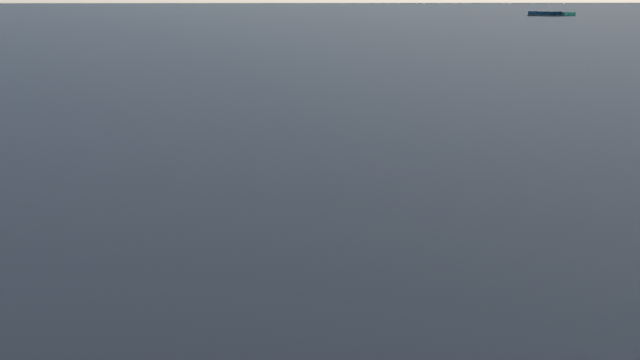
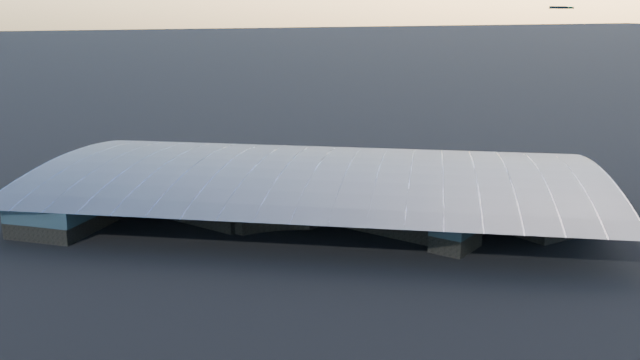
Checkpoint: concurrent agent output
Claude-Session: https://claude.ai/code/session_012rCzdfEp56Z5bDvSJLVsiQ

diff --git a/blender/buildings/render_verify.py b/blender/buildings/render_verify.py
@@ -79,6 +79,16 @@ VIEWS: dict[str, dict] = {
         "fov": 52.0, "sun_az": 200.0, "sun_el": 44.0, "size": (1600, 900),
         "title": "Bayside one- and two-family houses: gable, hip and shed roofs (t_14_6)",
     },
+    "midtown_setbacks": {
+        # aimed at BIN 1014429 (six roof plateaus, 25.9 m of setback over an 86 m tower) and its
+        # neighbours; rendered from the stepped build and from a --roof-steps off build of the same
+        # tile so the pair is directly comparable.
+        "tiles": ["t_-4_5", "t_-3_5", "t_-4_6", "t_-3_6"],
+        "cam": (-3246.0, 5615.0), "cam_agl": 105.0,
+        "target": (-3406.0, 5775.0), "target_agl": 42.0,
+        "fov": 42.0, "sun_az": 145.0, "sun_el": 40.0, "size": (1600, 900),
+        "title": "Midtown setbacks: real multi-level massing recovered from the CityGML LOD2 roof levels",
+    },
     "skyline_brooklyn": {
         "merged": {"level": 2, "cells": [(-2, 0), (-2, 1), (-1, 0), (-1, 1), (-2, -1), (-1, -1)]},
         "cam": (-4183.8, -431.9), "cam_z": 22.0,      # Brooklyn Heights Promenade deck

diff --git a/core/src/traffic/TrafficSim.cpp b/core/src/traffic/TrafficSim.cpp
@@ -1856,10 +1856,19 @@ uint32_t TrafficSim::spawn(VehicleClass c, uint32_t lane, float s, uint32_t dest
   path[0] = lane;
   nv.path_len = 1;
   nv.path_pos = 0;
-  if (dest_lane != kInvalidIndex && router_ != nullptr && router_->attached()) {
+  // Routing is budgeted like everything else: an agent that cannot be routed in
+  // this step drives on its wander path and picks its route up within a second.
+  if (dest_lane != kInvalidIndex && router_ != nullptr && router_->attached() &&
+      routes_this_step_ < cfg_.max_routes_per_step) {
+    ++routes_this_step_;
     if (!routeAgent(nv, dest_lane, dest_s)) extendPath(nv);
   } else {
     extendPath(nv);
+    if (dest_lane != kInvalidIndex) {
+      nv.dest_lane = dest_lane;
+      nv.dest_s = dest_s;
+      if (pending_routes_.size() < pending_routes_.capacity()) pending_routes_.push_back(id);
+    }
   }
   if (cp.is_bus) assignBusRoute(nv);
   ++stats_.spawned;

diff --git a/core/src/peds/PedSim.cpp b/core/src/peds/PedSim.cpp
@@ -426,8 +426,10 @@ void PedSim::updateAgent(uint32_t i) {
 
   // Walls: only evaluated near the corridor edge — the hard clamp in
   // integrate() is what actually guarantees non-penetration.
+  // The corridor clamp is what guarantees containment; the wall force only has
+  // to soften the approach, so it is evaluated in the last 40 cm.
   const float half = edgeWidthHalf(p.edge);
-  if (std::fabs(p.lateral) > half - 0.9f && walk_->wallCount() != 0) {
+  if (std::fabs(p.lateral) > half - 0.4f && walk_->wallCount() != 0) {
     uint32_t buf[8];
     const uint32_t nw = walk_->wallsNear(p.x, p.y, kWallQueryRadius, buf, 8);
     for (uint32_t k = 0; k < nw; ++k) {

diff --git a/docs/verification/landmarks/b_manhattan_bridge/REPORT.md b/docs/verification/landmarks/b_manhattan_bridge/REPORT.md
@@ -1,6 +1,6 @@
 # Manhattan Bridge
 
-Script: `blender/landmarks/b_manhattan_bridge.py` · agent B · generated 2026-09-06 14:07 UTC
+Script: `blender/landmarks/b_manhattan_bridge.py` · agent B · generated 2026-09-06 14:56 UTC
 
 ## Placement
 
@@ -55,4 +55,9 @@ plate reinforcement, the tower finial castings in detail, the arch's sculptural 
 ## Polycounts / outputs
 
 * `blender_out/landmarks/b_manhattan_bridge.glb` — 80,700 triangles, 3.33 MB, bounds min ['-479.3', '-830.7', '-10.0'] max ['375.3', '999.4', '107.4']
-* `blender_out/landmarks/b_manhattan_bridge_lod1.glb` — 28,940 triangles, 0.94 MB, bounds min ['-476.6', '-830.7', '-10.0'] max ['375.3', '996.7', '107.4']
+
+## Verification renders (Cycles CPU, 64 spp)
+
+![dumbo_washington_street_reference](dumbo_washington_street_reference.png)
+![pebble_beach_reference](pebble_beach_reference.png)
+![dumbo_washington_street](dumbo_washington_street.png)
